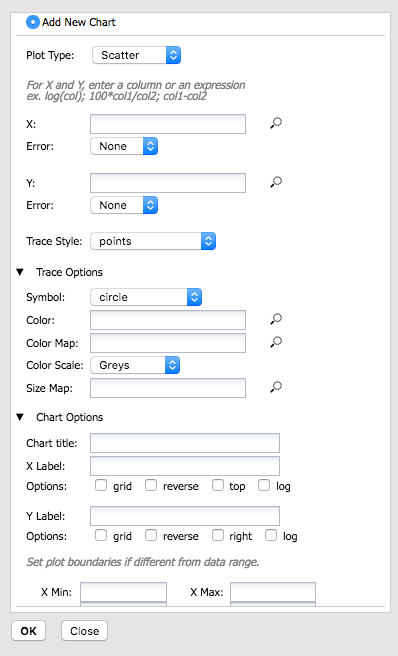
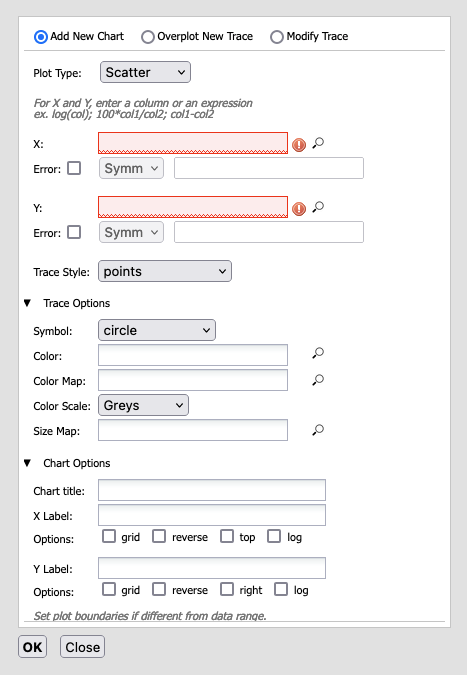
forgot there were changes to the plot dialog for errors

Changed region(s): [[0.0302, 0.0, 0.995, 0.9756]]

diff --git a/html/firefly/plots.html b/html/firefly/plots.html
@@ -270,7 +270,8 @@ blank.<P>
 <dt><strong>Options found only in plots showing individual points</strong>
 <dd>You can specify an error (either a column in the catalog, or
 calculated from a column in the catalog). Those errors can be
-symmetric or asymmetric (select from the pulldown menu).<P>
+symmetric or asymmetric (toggle the errors on by selecting the
+tickbox, then select from the pulldown menu).<P>
 
 Right below where you specify the columns for the x and y axis, under
 "<strong>Trace Style</strong>,"  you can control whether the points
